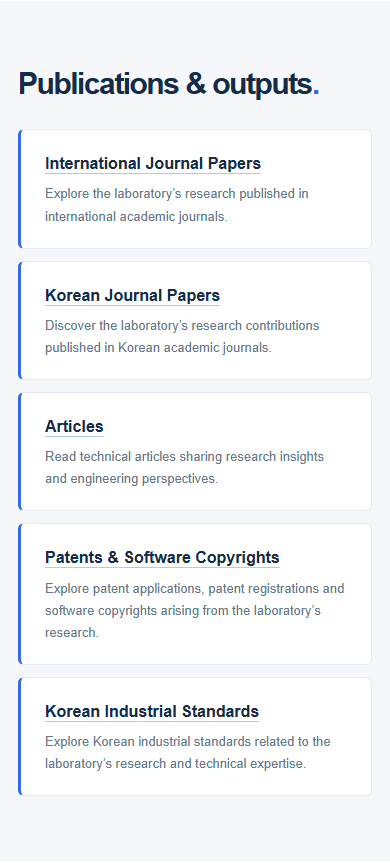
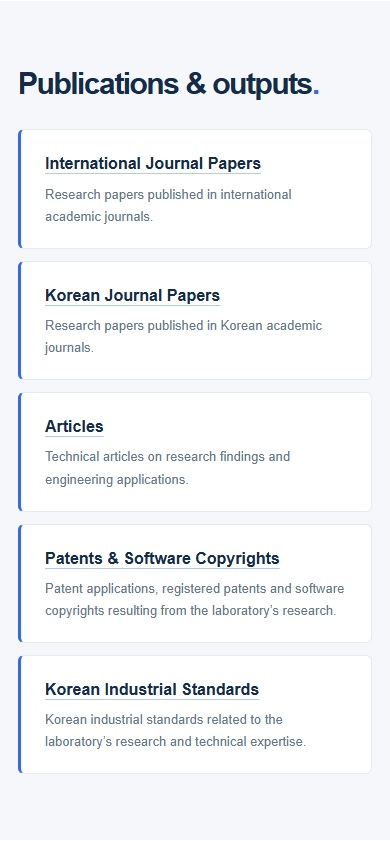
Use direct descriptive homepage summaries

diff --git a/assets/content.js b/assets/content.js
@@ -11,16 +11,16 @@ about: "The CAD (Computer-Aided Design) Laboratory is an integral unit of the De
     { title: "AR / VR", description: "Immersive visualization and engineering education." }
   ],
   people: [
-    {title: "Professor", description: "Meet Professor Jeongsam Yang of Ajou University and explore his academic profile, research interests and professional background.", href: "people/professor.html"},
-    {title: "Members", description: "Meet the five members of CAD Laboratory and explore their academic backgrounds and research.", href: "people/members.html"},
-    {title: "Alumni", description: "Explore the academic achievements, graduate research and professional paths of our 27 alumni.", href: "people/alumni.html"}
+    {title: "Professor", description: "Jeongsam Yang, Professor at Ajou University. Academic profile, research interests and professional background.", href: "people/professor.html"},
+    {title: "Members", description: "Academic backgrounds and research profiles of the five CAD Laboratory members.", href: "people/members.html"},
+    {title: "Alumni", description: "Academic achievements, graduate research and professional careers of CAD Laboratory’s 27 alumni.", href: "people/alumni.html"}
   ],
   publications: [
-    {title: "International Journal Papers", detail: "Explore the laboratory’s research published in international academic journals.", href: "publications/international.html"},
-    {title: "Korean Journal Papers", detail: "Discover the laboratory’s research contributions published in Korean academic journals.", href: "publications/korean.html"},
-    {title: "Articles", detail: "Read technical articles sharing research insights and engineering perspectives.", href: "publications/articles.html"},
-    {title: "Patents & Software Copyrights", detail: "Explore patent applications, patent registrations and software copyrights arising from the laboratory’s research.", href: "publications/patents.html"},
-    {title: "Korean Industrial Standards", detail: "Explore Korean industrial standards related to the laboratory’s research and technical expertise.", href: "publications/standards.html"}
+    {title: "International Journal Papers", detail: "Research papers published in international academic journals.", href: "publications/international.html"},
+    {title: "Korean Journal Papers", detail: "Research papers published in Korean academic journals.", href: "publications/korean.html"},
+    {title: "Articles", detail: "Technical articles on research findings and engineering applications.", href: "publications/articles.html"},
+    {title: "Patents & Software Copyrights", detail: "Patent applications, registered patents and software copyrights resulting from the laboratory’s research.", href: "publications/patents.html"},
+    {title: "Korean Industrial Standards", detail: "Korean industrial standards related to the laboratory’s research and technical expertise.", href: "publications/standards.html"}
   ],
   projects: [
     {title: "Ongoing Projects", description: "One project remains ongoing or extended. Its original planned end date is retained; the actual end date is unknown.", href: "research/ongoing.html"},

diff --git a/.github/review/hero/README.md b/.github/review/hero/README.md
@@ -31,3 +31,5 @@ Removed the requested historical-context note at the end of the homepage About i
 ## Publications presentation
 
 Removed the requested Publications heading description and rewrote all five category summaries as professional public-facing copy. Titles, links, detailed pages and all 97 output records remain unchanged. Five-width browser checks passed; desktop and mobile Publications screenshots were visually reviewed. The content guard allows only the approved People and Publications summary fields to differ.
+
+People and Publications summaries now use direct descriptive wording, removing introductory calls to action such as Explore, Discover, Read and Meet. Five-width checks passed and screenshots refreshed.
